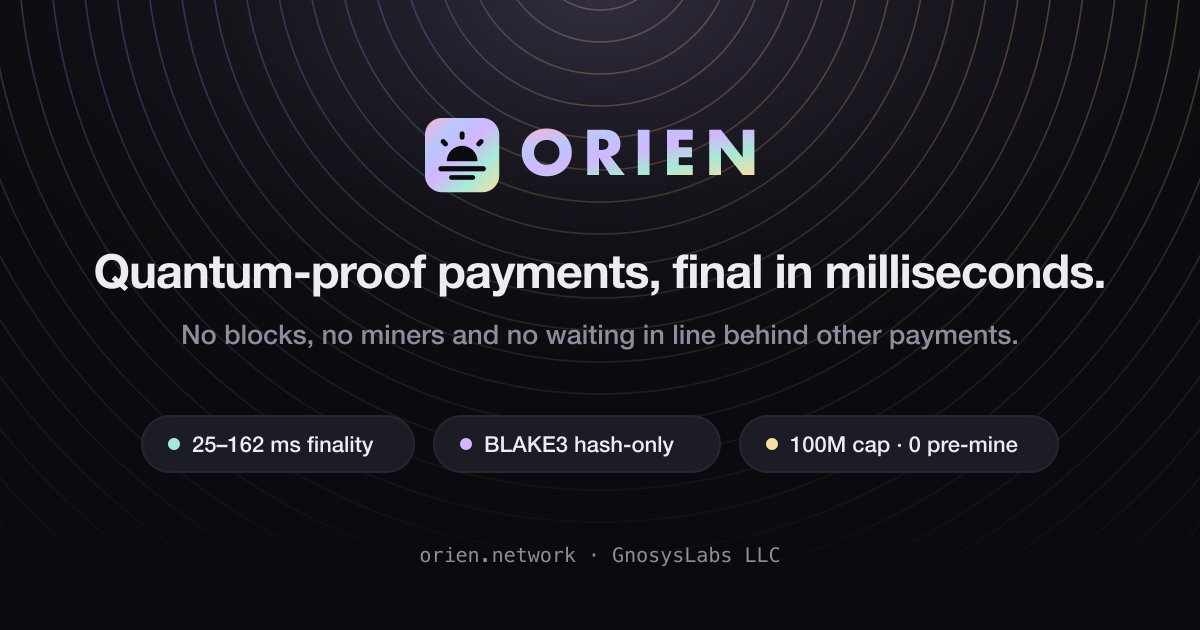
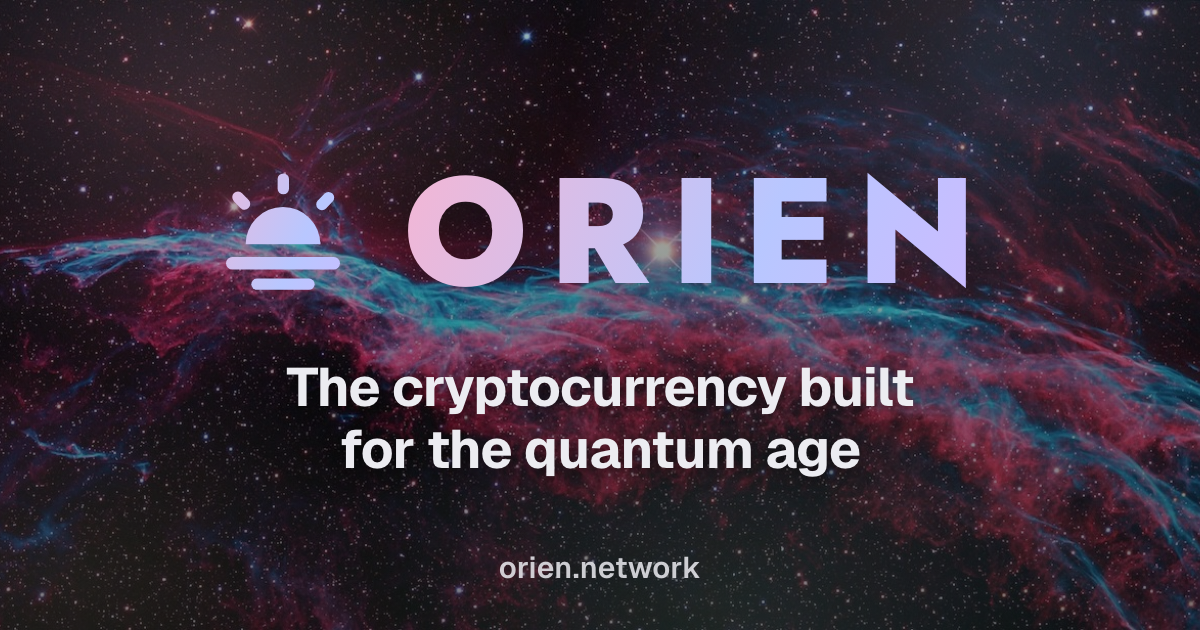
A new share image: large text, the bare sunrise mark, ORIEN in the brand font
Drawn by scripts/og.sh from the site's own styles on the nebula of the X
banner (brand/source/nebula.jpg). Linked as og.png?v=2 so previews refresh.

diff --git a/web/scripts/og.html b/web/scripts/og.html
@@ -1,0 +1,41 @@
+<!doctype html>
+<!-- The share image (public/og.png), drawn with the site's own styles: the
+     sunrise mark and the ORIEN wordmark exactly as the header draws them.
+     scripts/og.sh fills in the classes and stylesheet of the latest build. -->
+<html lang="en" class="{{HTML_CLASS}}">
+<head>
+<meta charset="utf-8">
+<link rel="stylesheet" href="{{CSS}}">
+<style>
+  html, body { margin: 0; width: 1200px; height: 630px; overflow: hidden; background: #0b0b0f; }
+  *, *::before, *::after { animation: none !important; }
+  .stage {
+    position: relative; width: 1200px; height: 630px; box-sizing: border-box;
+    display: flex; flex-direction: column; align-items: center; justify-content: center; gap: 44px;
+    background: linear-gradient(rgba(11,11,15,0.30), rgba(11,11,15,0.55)), url(_og-nebula.jpg) center / cover;
+  }
+  .glow { position: absolute; inset: -60px; z-index: 0; opacity: 0.8; }
+  .word { position: relative; font-size: 150px; }
+  .tag {
+    position: relative; text-align: center; font-size: 54px; line-height: 1.15; font-weight: 700;
+    color: var(--color-ink); letter-spacing: -0.015em; max-width: 1000px;
+    font-family: var(--font-geist-sans), system-ui, sans-serif; text-shadow: 0 2px 18px rgba(0,0,0,0.55);
+  }
+  .site {
+    position: absolute; bottom: 40px; font-size: 30px; font-weight: 600; color: var(--color-ink); opacity: 0.85;
+    font-family: var(--font-geist-sans), system-ui, sans-serif; letter-spacing: 0.01em;
+  }
+</style>
+</head>
+<body>
+<div class="stage">
+  <div class="glow hero-glow"></div>
+  <span class="word inline-flex items-center gap-[0.26em] leading-none">
+    <span class="orien-mark pearl-fill shrink-0" aria-hidden></span>
+    <span class="-my-[0.1em] py-[0.1em] font-brand font-extrabold uppercase tracking-[0.14em] pearl-text [text-box:trim-both_cap_alphabetic]">ORIEN</span>
+  </span>
+  <div class="tag">The cryptocurrency built<br>for the quantum age</div>
+  <div class="site">orien.network</div>
+</div>
+</body>
+</html>

diff --git a/web/src/app/paper/page.tsx b/web/src/app/paper/page.tsx
@@ -44,7 +44,7 @@ export default function PaperPage() {
           description:
             'The exact rules of the Orien cryptocurrency: hash-based one-time signatures, payment certificates, hourly checkpoints, staking, fees, RandomX mining and atomic swaps with SOL and Bitcoin.',
           mainEntityOfPage: `${SITE_URL}/paper/`,
-          image: `${SITE_URL}/og.png`,
+          image: `${SITE_URL}/og.png?v=2`,
           encoding: { '@type': 'MediaObject', contentUrl: `${SITE_URL}/orien-paper.pdf`, encodingFormat: 'application/pdf' },
           author: { '@id': `${SITE_URL}/#orien` },
           publisher: { '@id': `${SITE_URL}/#orien` },

diff --git a/web/src/lib/seo.ts b/web/src/lib/seo.ts
@@ -2,7 +2,7 @@ import type { Metadata } from 'next'
 import { SITE_NAME, SITE_URL } from './brand'
 
 /** The picture shown when a page is shared. */
-export const SHARE_IMAGE = { url: '/og.png', width: 1200, height: 630, alt: 'Orien: the quantum-proof cryptocurrency' }
+export const SHARE_IMAGE = { url: '/og.png?v=2', width: 1200, height: 630, alt: 'Orien: the quantum-proof cryptocurrency' }
 
 /** A page's metadata: its title and description for search results, and
  * the same for links shared on X, Discord, Telegram and the like, with the

diff --git a/web/src/app/news/randomx/page.tsx b/web/src/app/news/randomx/page.tsx
@@ -36,7 +36,7 @@ export default function RandomXPost() {
           description:
             'From epoch 21, Orien mining uses RandomX, the CPU-friendly proof-of-work Monero uses, so any computer can mine.',
           datePublished: '2026-11-15',
-          image: `${SITE_URL}/og.png`,
+          image: `${SITE_URL}/og.png?v=2`,
           mainEntityOfPage: `${SITE_URL}/news/randomx/`,
           author: { '@id': `${SITE_URL}/#orien` },
           publisher: { '@id': `${SITE_URL}/#orien` },

diff --git a/web/src/app/layout.tsx b/web/src/app/layout.tsx
@@ -71,7 +71,7 @@ export const metadata: Metadata = {
     site: '@OrienNetwork',
     title: `${SITE_NAME}: the quantum-proof cryptocurrency, final in a blink`,
     description: SITE_DESCRIPTION,
-    images: ['/og.png'],
+    images: ['/og.png?v=2'],
   },
 }
 
